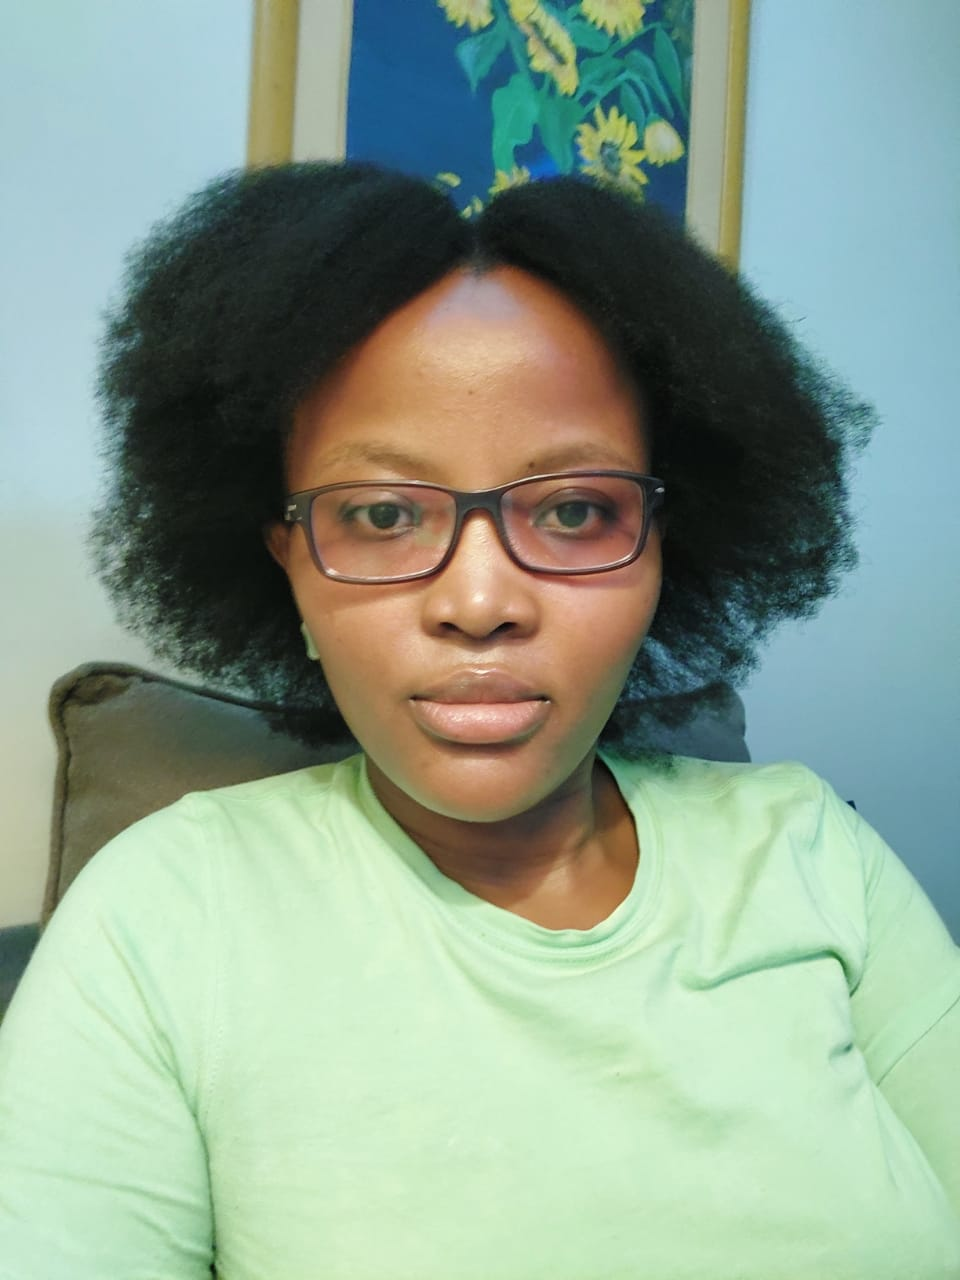
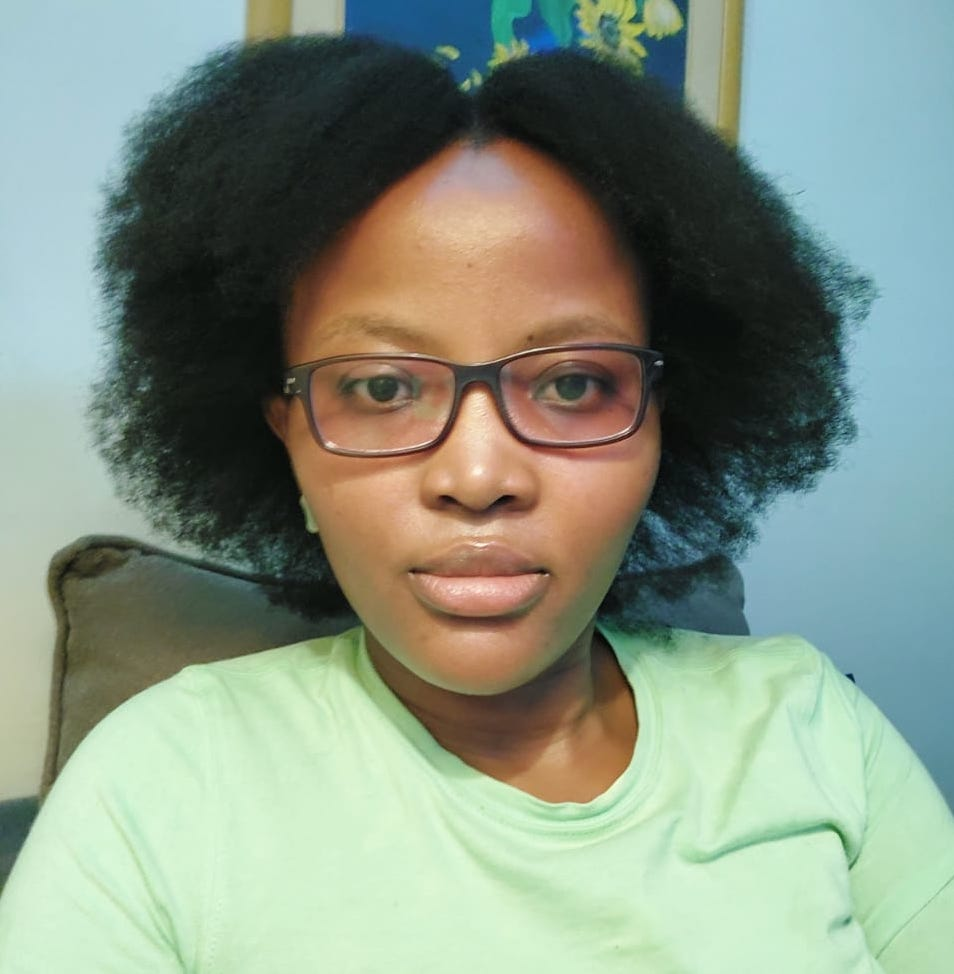
Make potrait round

diff --git a/style.css b/style.css
@@ -8,3 +8,8 @@
     align-items: center;
     flex-direction: column;
 }
+
+#main img {
+    border-radius: 50%;
+    width: 200px;
+}
